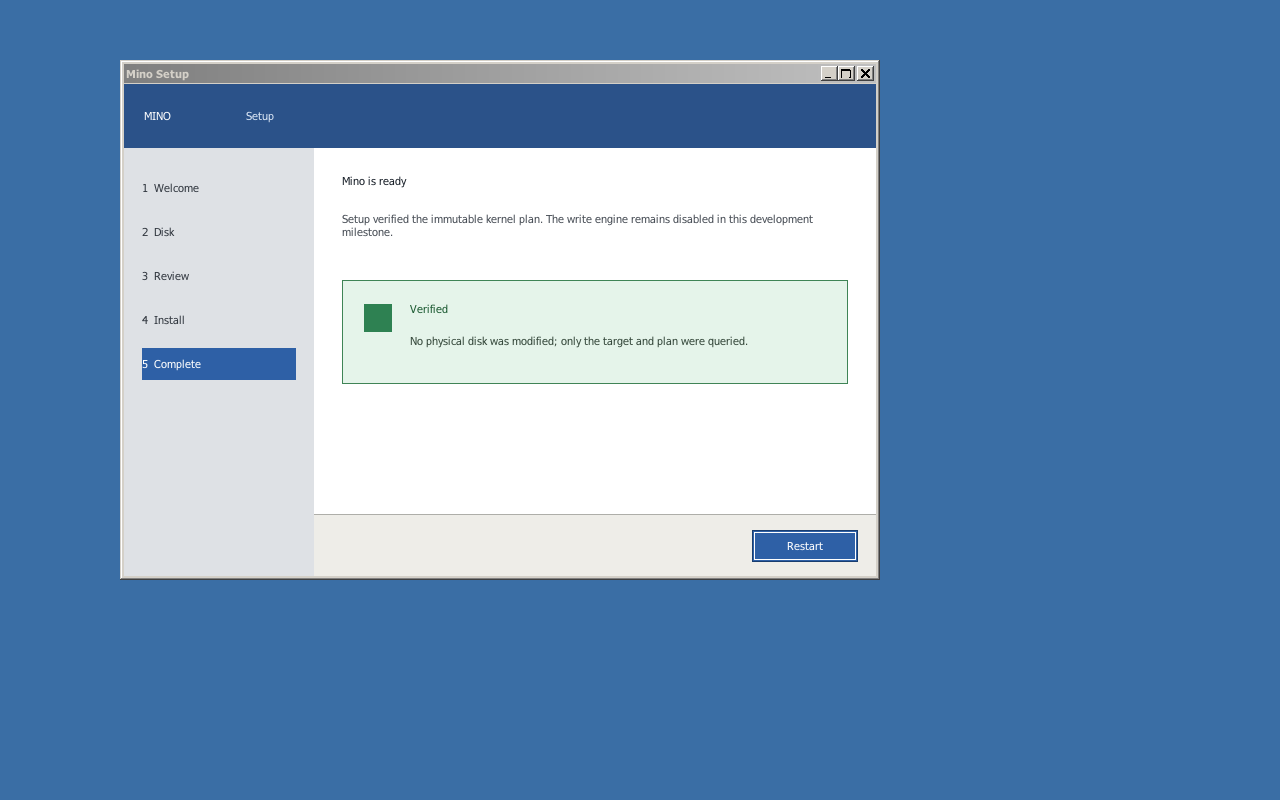
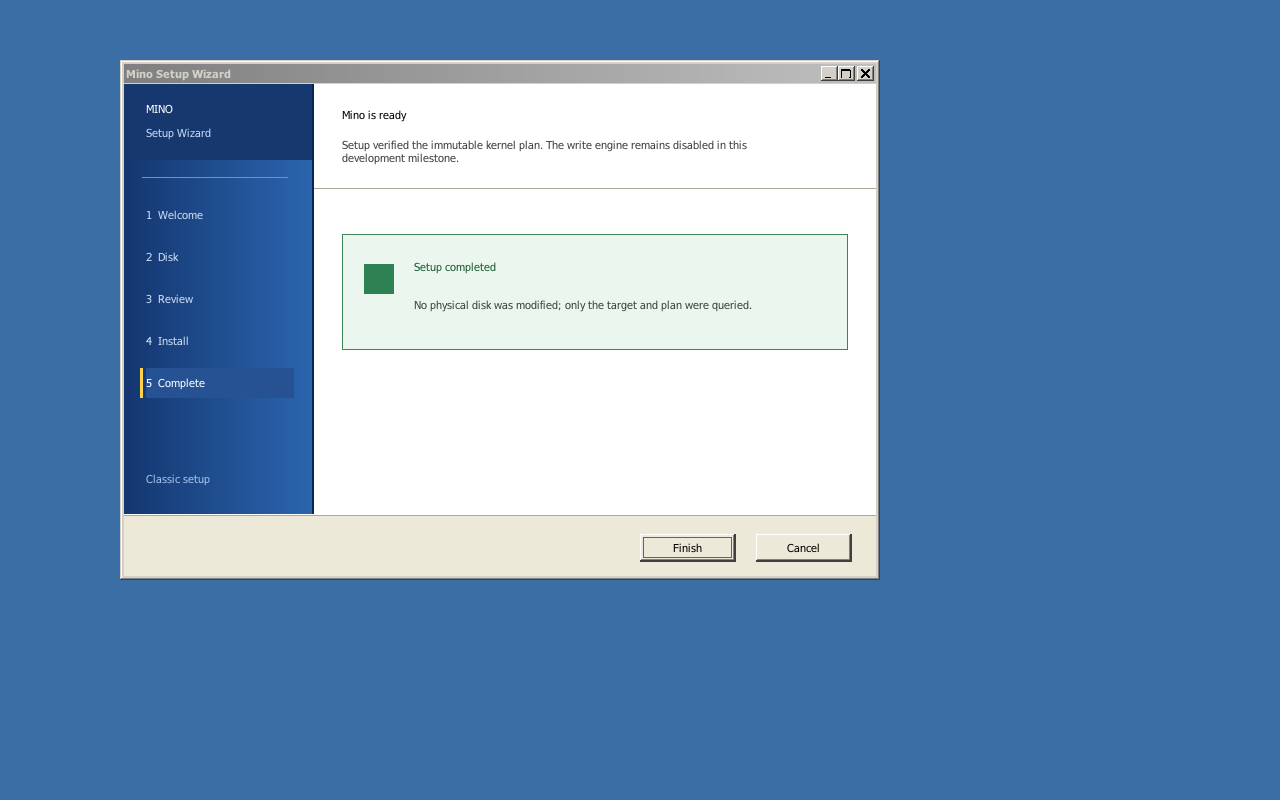
install: adopter un assistant classique ReactOS

Changed region(s): [[0.0938, 0.0938, 0.6875, 0.6562], [0.5, 0.6562, 0.6875, 0.7188]]

diff --git a/tests/native/setup1.c b/tests/native/setup1.c
@@ -353,20 +353,41 @@ static void text(HDC dc, const WCHAR *value, RECT area, COLORREF color, UINT fla
 
 static void button(HDC dc, RECT area, const WCHAR *label, BOOL focused)
 {
-    COLORREF face = focused ? RGB(46, 96, 166) : RGB(224, 223, 216);
-    COLORREF ink = focused ? RGB(255, 255, 255) : RGB(31, 35, 41);
-
-    fill(dc, area, face);
-    border(dc, area, focused ? RGB(24, 61, 111) : RGB(95, 99, 104));
+    fill(dc, area, RGB(236, 233, 216));
+    fill(dc, rect(area.left, area.top, area.right, area.top + 1), RGB(255, 255, 255));
+    fill(dc, rect(area.left, area.top, area.left + 1, area.bottom), RGB(255, 255, 255));
+    fill(dc, rect(area.left, area.bottom - 2, area.right, area.bottom), RGB(64, 64, 64));
+    fill(dc, rect(area.right - 2, area.top, area.right, area.bottom), RGB(64, 64, 64));
+    fill(dc, rect(area.left + 1, area.bottom - 3, area.right - 2, area.bottom - 2), RGB(128, 128, 128));
+    fill(dc, rect(area.right - 3, area.top + 1, area.right - 2, area.bottom - 2), RGB(128, 128, 128));
     if (focused)
-        border(dc, rect(area.left + 2, area.top + 2, area.right - 2, area.bottom - 2), RGB(255, 255, 255));
-    text(dc, label, area, ink, DT_CENTER | DT_VCENTER | DT_SINGLELINE);
+        border(dc, rect(area.left + 3, area.top + 3, area.right - 4, area.bottom - 4), RGB(49, 106, 197));
+    text(dc, label, area, RGB(0, 0, 0), DT_CENTER | DT_VCENTER | DT_SINGLELINE);
 }
 
 static void heading(HDC dc, const WCHAR *title, const WCHAR *description)
 {
-    text(dc, title, rect(218, 90, 724, 122), RGB(24, 31, 40), DT_LEFT | DT_SINGLELINE);
-    text(dc, description, rect(218, 128, 724, 176), RGB(72, 78, 86), DT_LEFT | DT_WORDBREAK);
+    text(dc, title, rect(218, 24, 650, 50), RGB(0, 0, 0), DT_LEFT | DT_SINGLELINE);
+    text(dc, description, rect(218, 54, 678, 94), RGB(64, 64, 64), DT_LEFT | DT_WORDBREAK);
+    fill(dc, rect(190, 104, 752, 105), RGB(172, 168, 153));
+    fill(dc, rect(190, 105, 752, 106), RGB(255, 255, 255));
+}
+
+static void blue_panel(HDC dc)
+{
+    int x;
+
+    for (x = 0; x < 190; ++x) {
+        int red = 20 + x * 24 / 190;
+        int green = 55 + x * 47 / 190;
+        int blue = 112 + x * 64 / 190;
+        fill(dc, rect(x, 0, x + 1, 430), RGB(red, green, blue));
+    }
+    fill(dc, rect(0, 0, 190, 76), RGB(23, 56, 111));
+    fill(dc, rect(188, 0, 190, 430), RGB(9, 36, 82));
+    text(dc, L"MINO", rect(22, 18, 90, 42), RGB(255, 255, 255), DT_LEFT | DT_SINGLELINE);
+    text(dc, L"Setup Wizard", rect(22, 42, 160, 64), RGB(196, 215, 244), DT_LEFT | DT_SINGLELINE);
+    fill(dc, rect(18, 93, 164, 94), RGB(105, 147, 207));
 }
 
 static void draw_steps(HDC dc)
@@ -374,71 +395,77 @@ static void draw_steps(HDC dc)
     static const WCHAR *labels[] = {L"1  Welcome", L"2  Disk", L"3  Review", L"4  Install", L"5  Complete"};
     int index;
 
-    fill(dc, rect(0, 64, 190, 492), RGB(222, 225, 229));
+    blue_panel(dc);
     for (index = 0; index < 5; ++index) {
-        RECT row = rect(18, 88 + index * 44, 172, 120 + index * 44);
-        if (index == (int)current_screen)
-            fill(dc, row, RGB(46, 96, 166));
+        RECT row = rect(22, 116 + index * 42, 170, 146 + index * 42);
+        if (index == (int)current_screen) {
+            fill(dc, rect(16, row.top, 19, row.bottom), RGB(255, 210, 72));
+            fill(dc, row, RGB(38, 82, 148));
+        }
         text(dc, labels[index], row,
-             index == (int)current_screen ? RGB(255, 255, 255) : RGB(50, 56, 64),
+             index == (int)current_screen ? RGB(255, 255, 255) : RGB(205, 220, 243),
              DT_LEFT | DT_VCENTER | DT_SINGLELINE);
     }
+    text(dc, L"Classic setup", rect(22, 388, 160, 410), RGB(164, 191, 230), DT_LEFT | DT_SINGLELINE);
 }
 
 static void draw_navigation(HDC dc, BOOL back, const WCHAR *primary)
 {
-    fill(dc, rect(190, 430, 752, 492), RGB(238, 237, 232));
-    fill(dc, rect(190, 430, 752, 431), RGB(174, 174, 169));
+    fill(dc, rect(0, 430, 752, 492), RGB(236, 233, 216));
+    fill(dc, rect(0, 430, 752, 431), RGB(255, 255, 255));
+    fill(dc, rect(0, 431, 752, 432), RGB(172, 168, 153));
     if (back)
-        button(dc, rect(518, 446, 616, 478), L"Back", focused_action == 0);
-    button(dc, rect(628, 446, 734, 478), primary, focused_action == 1);
+        button(dc, rect(414, 450, 510, 478), L"< Back", focused_action == 0);
+    button(dc, rect(516, 450, 612, 478), primary, focused_action == 1);
+    button(dc, rect(632, 450, 728, 478), L"Cancel", FALSE);
 }
 
 static void draw_welcome(HDC dc)
 {
     heading(dc, L"Welcome to Mino Setup",
             L"This installer prepares a GPT disk and installs Mino. You can review every change before disk writes begin.");
-    fill(dc, rect(218, 196, 724, 310), RGB(244, 247, 251));
-    border(dc, rect(218, 196, 724, 310), RGB(168, 180, 196));
-    text(dc, L"Keyboard navigation", rect(238, 214, 690, 238), RGB(30, 60, 96), DT_LEFT | DT_SINGLELINE);
+    fill(dc, rect(218, 146, 724, 278), RGB(247, 249, 253));
+    border(dc, rect(218, 146, 724, 278), RGB(149, 167, 196));
+    fill(dc, rect(218, 146, 224, 278), RGB(49, 106, 197));
+    text(dc, L"Welcome to the Mino Setup Wizard", rect(242, 168, 690, 194), RGB(0, 51, 153), DT_LEFT | DT_SINGLELINE);
     text(dc, L"Use Tab to move between actions, Enter or Space to activate, and Escape to go back.",
-         rect(238, 246, 690, 292), RGB(55, 61, 69), DT_LEFT | DT_WORDBREAK);
-    draw_navigation(dc, FALSE, L"Continue");
+         rect(242, 208, 690, 254), RGB(52, 52, 52), DT_LEFT | DT_WORDBREAK);
+    draw_navigation(dc, FALSE, L"Next >");
 }
 
 static void draw_disk(HDC dc)
 {
     heading(dc, L"Select the installation disk",
             L"Guided setup will use the whole disk. The kernel excludes the running system and boot media.");
-    fill(dc, rect(218, 190, 724, 272), RGB(248, 248, 246));
-    border(dc, rect(218, 190, 724, 272), RGB(46, 96, 166));
-    fill(dc, rect(218, 190, 224, 272), RGB(46, 96, 166));
-    text(dc, backend_ready ? L"ATA secondary master" : L"No safe target", rect(244, 204, 520, 228),
+    fill(dc, rect(218, 142, 724, 228), RGB(255, 255, 255));
+    border(dc, rect(218, 142, 724, 228), RGB(49, 106, 197));
+    fill(dc, rect(218, 142, 224, 228), RGB(49, 106, 197));
+    text(dc, backend_ready ? L"ATA secondary master" : L"No safe target", rect(244, 156, 520, 180),
          RGB(24, 31, 40), DT_LEFT | DT_SINGLELINE);
-    text(dc, target_size_text, rect(540, 204, 700, 228),
+    text(dc, target_size_text, rect(540, 156, 700, 180),
          backend_ready ? RGB(46, 96, 166) : RGB(145, 42, 42), DT_LEFT | DT_SINGLELINE);
-    fill(dc, rect(244, 240, 332, 254), RGB(103, 147, 203));
-    fill(dc, rect(332, 240, 692, 254), RGB(74, 116, 174));
-    text(dc, L"EFI System", rect(244, 278, 360, 302), RGB(65, 70, 76), DT_LEFT | DT_SINGLELINE);
-    text(dc, L"Mino System", rect(390, 278, 530, 302), RGB(65, 70, 76), DT_LEFT | DT_SINGLELINE);
+    fill(dc, rect(244, 196, 332, 210), RGB(116, 162, 218));
+    fill(dc, rect(332, 196, 692, 210), RGB(49, 106, 197));
+    text(dc, L"EFI System", rect(244, 244, 360, 268), RGB(65, 70, 76), DT_LEFT | DT_SINGLELINE);
+    text(dc, L"Mino System", rect(390, 244, 530, 268), RGB(65, 70, 76), DT_LEFT | DT_SINGLELINE);
     text(dc, backend_ready ? L"Read-only kernel plan ready; no write occurs on this screen."
                            : L"Connect an unmounted secondary ATA target to continue.",
-         rect(218, 336, 724, 364), RGB(84, 89, 95), DT_LEFT | DT_SINGLELINE);
-    draw_navigation(dc, TRUE, L"Continue");
+         rect(218, 304, 724, 332), RGB(84, 89, 95), DT_LEFT | DT_SINGLELINE);
+    draw_navigation(dc, TRUE, L"Next >");
 }
 
 static void draw_review(HDC dc)
 {
     heading(dc, L"Review disk changes",
             L"Confirm the target and partition plan. Installation begins only when you activate Install.");
-    fill(dc, rect(218, 190, 724, 264), RGB(255, 246, 218));
-    border(dc, rect(218, 190, 724, 264), RGB(181, 137, 38));
-    text(dc, L"All existing data on the secondary ATA target will be removed.", rect(238, 208, 704, 244),
+    fill(dc, rect(218, 142, 724, 216), RGB(255, 247, 218));
+    border(dc, rect(218, 142, 724, 216), RGB(181, 137, 38));
+    text(dc, L"All existing data on the secondary ATA target will be removed.", rect(238, 160, 704, 196),
          RGB(91, 61, 8), DT_LEFT | DT_WORDBREAK);
-    text(dc, L"Before", rect(218, 286, 320, 310), RGB(73, 78, 84), DT_LEFT | DT_SINGLELINE);
-    text(dc, L"Existing disk contents", rect(344, 286, 704, 310), RGB(24, 31, 40), DT_LEFT | DT_SINGLELINE);
-    text(dc, L"After", rect(218, 322, 320, 346), RGB(73, 78, 84), DT_LEFT | DT_SINGLELINE);
-    text(dc, L"GPT + EFI System + Mino System", rect(344, 322, 704, 346), RGB(24, 31, 40), DT_LEFT | DT_SINGLELINE);
+    text(dc, L"Before", rect(218, 246, 320, 270), RGB(73, 78, 84), DT_LEFT | DT_SINGLELINE);
+    text(dc, L"Existing disk contents", rect(344, 246, 704, 270), RGB(24, 31, 40), DT_LEFT | DT_SINGLELINE);
+    text(dc, L"After", rect(218, 286, 320, 310), RGB(73, 78, 84), DT_LEFT | DT_SINGLELINE);
+    text(dc, L"GPT + EFI System + Mino System", rect(344, 286, 704, 310), RGB(24, 31, 40), DT_LEFT | DT_SINGLELINE);
     draw_navigation(dc, TRUE, L"Install");
 }
 
@@ -451,27 +478,27 @@ static void draw_install(HDC dc)
     heading(dc, L"Installing Mino", L"Keep the machine powered on while setup completes and verifies each stage.");
     for (index = 0; index < 5; ++index) {
         int threshold = (index + 1) * 20;
-        RECT mark = rect(222, 196 + index * 36, 238, 212 + index * 36);
+        RECT mark = rect(222, 142 + index * 42, 238, 158 + index * 42);
         fill(dc, mark, progress >= threshold ? RGB(46, 129, 82) : RGB(205, 207, 209));
-        text(dc, stages[index], rect(250, 190 + index * 36, 650, 218 + index * 36), RGB(40, 45, 51),
+        text(dc, stages[index], rect(250, 136 + index * 42, 650, 164 + index * 42), RGB(40, 45, 51),
              DT_LEFT | DT_VCENTER | DT_SINGLELINE);
     }
-    fill(dc, rect(218, 386, 724, 408), RGB(205, 207, 209));
-    fill(dc, rect(220, 388, 220 + progress * 5, 406), RGB(46, 96, 166));
-    text(dc, L"Installation in progress", rect(218, 414, 724, 438), RGB(72, 78, 86), DT_LEFT | DT_SINGLELINE);
+    fill(dc, rect(218, 364, 724, 386), RGB(205, 207, 209));
+    fill(dc, rect(220, 366, 220 + progress * 5, 384), RGB(49, 106, 197));
+    text(dc, L"Installation in progress", rect(218, 394, 724, 418), RGB(72, 78, 86), DT_LEFT | DT_SINGLELINE);
 }
 
 static void draw_complete(HDC dc)
 {
     heading(dc, L"Mino is ready",
             L"Setup verified the immutable kernel plan. The write engine remains disabled in this development milestone.");
-    fill(dc, rect(218, 196, 724, 300), RGB(229, 244, 234));
-    border(dc, rect(218, 196, 724, 300), RGB(63, 132, 86));
-    fill(dc, rect(240, 220, 268, 248), RGB(46, 129, 82));
-    text(dc, L"Verified", rect(286, 218, 690, 244), RGB(29, 91, 51), DT_LEFT | DT_SINGLELINE);
-    text(dc, L"No physical disk was modified; only the target and plan were queried.", rect(286, 250, 690, 280),
+    fill(dc, rect(218, 150, 724, 266), RGB(235, 247, 238));
+    border(dc, rect(218, 150, 724, 266), RGB(63, 132, 86));
+    fill(dc, rect(240, 180, 270, 210), RGB(46, 129, 82));
+    text(dc, L"Setup completed", rect(290, 176, 690, 202), RGB(29, 91, 51), DT_LEFT | DT_SINGLELINE);
+    text(dc, L"No physical disk was modified; only the target and plan were queried.", rect(290, 214, 690, 248),
          RGB(53, 72, 59), DT_LEFT | DT_SINGLELINE);
-    draw_navigation(dc, FALSE, L"Restart");
+    draw_navigation(dc, FALSE, L"Finish");
 }
 
 static void draw(HWND window, HDC dc)
@@ -480,12 +507,9 @@ static void draw(HWND window, HDC dc)
 
     SelectObject(dc, GetStockObject(DEFAULT_GUI_FONT));
     GetClientRect(window, &client);
-    fill(dc, client, RGB(246, 245, 241));
-    fill(dc, rect(0, 0, client.right, 64), RGB(43, 82, 137));
-    text(dc, L"MINO", rect(20, 14, 118, 50), RGB(255, 255, 255), DT_LEFT | DT_VCENTER | DT_SINGLELINE);
-    text(dc, L"Setup", rect(122, 14, 300, 50), RGB(218, 230, 245), DT_LEFT | DT_VCENTER | DT_SINGLELINE);
+    fill(dc, client, RGB(236, 233, 216));
+    fill(dc, rect(190, 0, client.right, 430), RGB(255, 255, 255));
     draw_steps(dc);
-    fill(dc, rect(190, 64, client.right, 430), RGB(255, 255, 255));
 
     switch (current_screen) {
     case SCREEN_WELCOME:
@@ -658,7 +682,7 @@ DWORD __stdcall GuiStartup(void)
     if (!RegisterClassExW(&class_info))
         ExitProcess(3);
 
-    window = CreateWindowExW(0, CLASS_NAME, L"Mino Setup", WS_OVERLAPPEDWINDOW | WS_VISIBLE,
+    window = CreateWindowExW(0, CLASS_NAME, L"Mino Setup Wizard", WS_OVERLAPPEDWINDOW | WS_VISIBLE,
                              120, 60, 760, 520, 0, 0, instance, 0);
     if (!window)
         ExitProcess(4);

diff --git a/docs/compat/install-ui.md b/docs/compat/install-ui.md
@@ -6,6 +6,11 @@ reste [`../design/installer-ui-prompt.md`](../design/installer-ui-prompt.md).
 
 ![Écran final de l'installateur Mino](../images/installer-ui-backend.png)
 
+La présentation suit le langage visuel des assistants ReactOS et Windows XP :
+rail bleu à cinq étapes, contenu blanc, barre d'actions beige et boutons en
+relief. Les couleurs, le nom et les éléments graphiques restent propres à
+Mino ; aucune ressource Microsoft n'est intégrée.
+
 ## Architecture retenue
 
 L'installateur est un programme Win32 natif, lié aux `user32`, `gdi32`,
